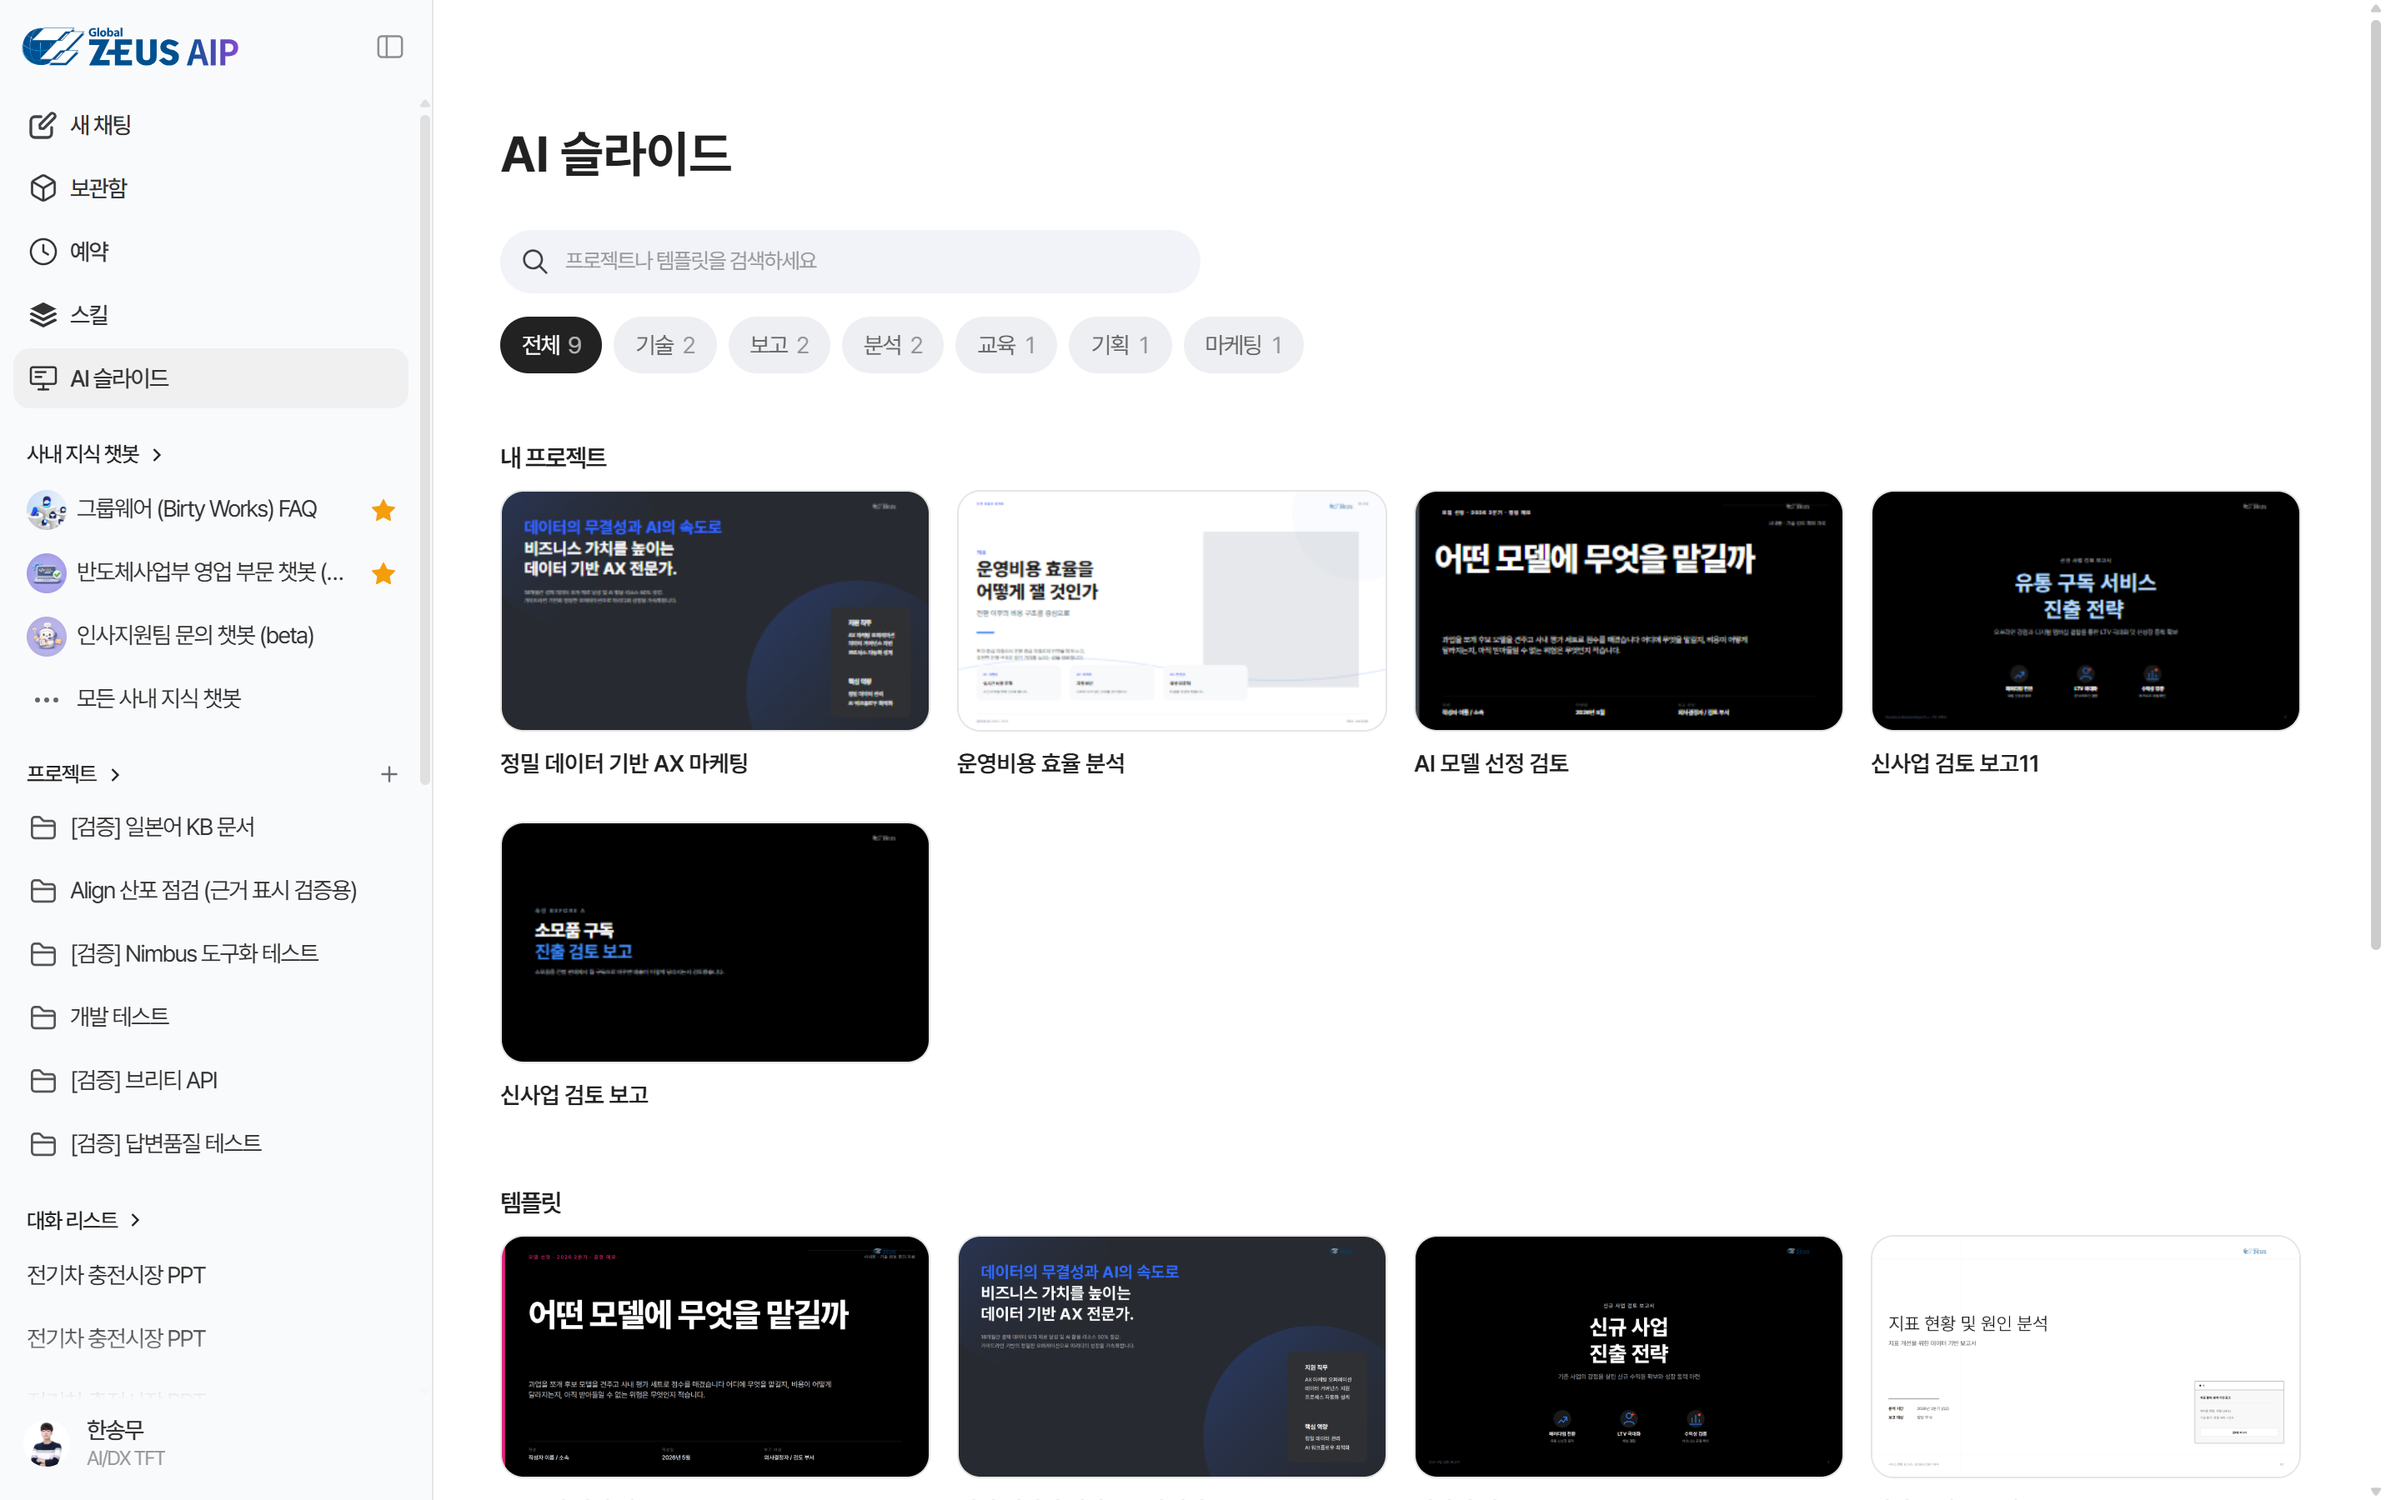
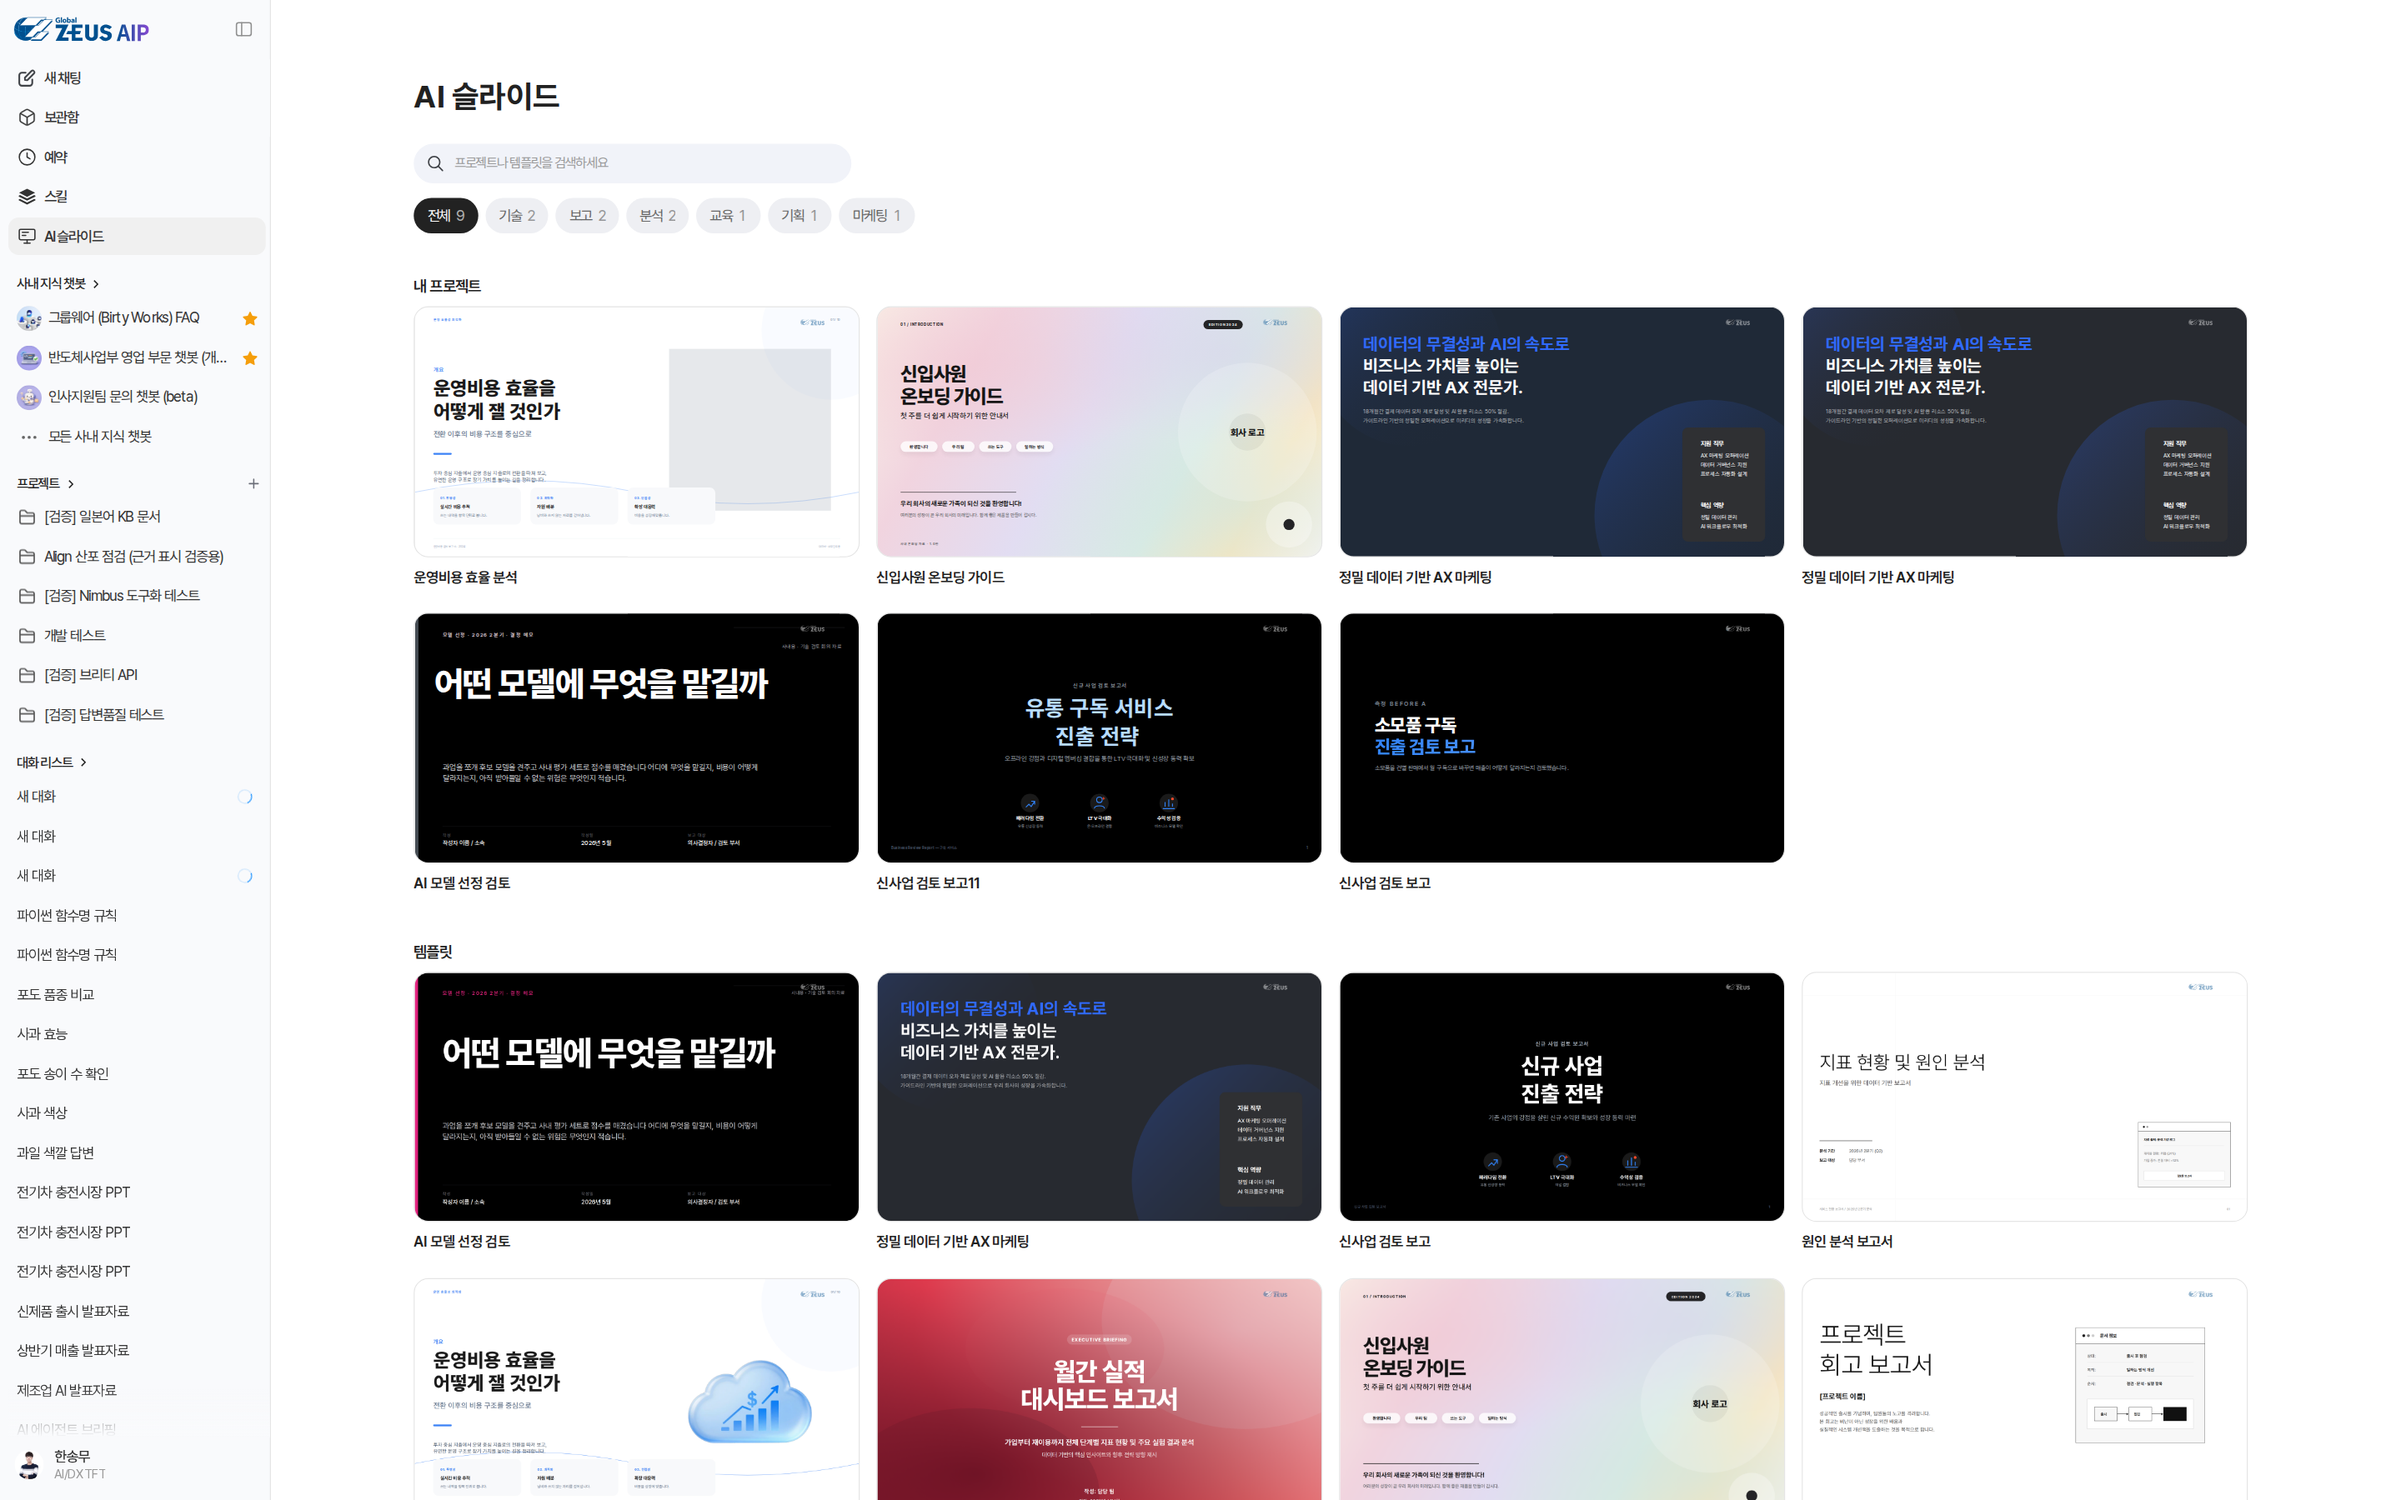
content(ai-platform): AI 슬라이드를 축소 화면과 패널 캡처로 보완한다
갤러리·편집 화면을 2304x1440@1.25(2880x1800)로 다시 찍어 한 화면에
더 많이 보이게 하고, 요소·텍스트·배경 패널 캡처(252~254)를 넣는다.
본문은 내부 장치 설명을 걷고, 사람이 고친 부분을 에이전트가 덮지 않는
것과 좌측 패널로 직접 손보는 흐름만 남긴다.

diff --git a/src/content/builds.ts b/src/content/builds.ts
@@ -372,10 +372,14 @@ export const builds: Build[] = [
       { type: 'image', src: '/projects/ai-platform/133.png', alt: '보관함 화면', caption: '채팅에서 쓰고 만든 파일이 모이는 보관함' },
       { type: 'heading', text: 'AI 슬라이드 (개발 중)' },
       { type: 'image', src: '/projects/ai-platform/250.png', alt: 'AI 슬라이드 갤러리 - 내 프로젝트와 템플릿', caption: '내 프로젝트와 템플릿' },
-      { type: 'paragraph', text: '발표자료를 템플릿에서 시작해 대화로 고치고, PPTX와 PDF로 내보내는 전용 화면입니다. 아직 운영에는 열지 않았습니다.' },
       { type: 'image', src: '/projects/ai-platform/251.png', alt: 'AI 슬라이드 편집 화면 - 왼쪽 AI 대화, 가운데 무대, 아래 장 목록', caption: '편집 화면' },
-      { type: 'paragraph', text: '발표자료는 장마다 레이어 목록을 가진 JSON 문서로 저장하고, 문서는 속성 변경과 레이어 추가·삭제·순서 변경 네 가지 연산으로만 바꿉니다. 장 전체를 다시 그리지 않고 레이어 하나만 고치기 위해서고, 바꾸는 방법이 적어야 되돌리기와 충돌 판정을 한 곳에서 처리할 수 있기 때문입니다.' },
-      { type: 'paragraph', text: '되돌리기는 편집할 때 바뀌기 전 값을 저장해 두었다가 같은 종류의 연산으로 다시 보냅니다. 그사이 에이전트가 같은 자리를 바꿨으면 이전 값으로 덮지 않습니다. 에이전트가 발표자료를 고친 턴마다 저장 지점을 남겨, 기록에서 이전 판으로 돌아갈 수 있습니다.' },
+      { type: 'image', src: '/projects/ai-platform/252.png', alt: 'AI 슬라이드 요소 패널 - 도형, 선, 화살표', caption: '요소 패널' },
+      { type: 'image', src: '/projects/ai-platform/253.png', alt: 'AI 슬라이드 텍스트 패널 - 기본 텍스트, 자주 쓰는 스타일, 폰트 조합', caption: '텍스트 패널' },
+      { type: 'image', src: '/projects/ai-platform/254.png', alt: 'AI 슬라이드 배경 패널 - 단색, 그라디언트, 이미지', caption: '배경 패널' },
+      { type: 'paragraph', text: '발표자료를 템플릿에서 시작해 대화로 고치고, PPTX와 PDF로 내보내는 전용 화면입니다. 아직 운영에는 열지 않았습니다.' },
+      { type: 'paragraph', text: '발표자료는 장마다 요소 목록을 가진 문서로 저장하고, 사람과 에이전트 모두 같은 몇 가지 편집 연산으로만 고칩니다. 에이전트가 장 전체를 다시 만들지 않고 필요한 요소만 고치게 하기 위해서입니다.' },
+      { type: 'paragraph', text: '사람이 직접 고친 부분은 에이전트가 덮어쓰지 않고, 되돌리기도 그사이 에이전트가 바꾼 내용은 건드리지 않습니다. 에이전트가 고친 턴마다 저장 지점을 남겨 기록에서 이전 판으로 돌아갈 수 있습니다.' },
+      { type: 'paragraph', text: '대화로 고치다가 직접 손볼 수 있도록 편집기 왼쪽에 요소, 텍스트, 업로드, 배경 패널을 두었습니다. 요소를 끌어 옮기거나 묶고 잠글 수 있고, 위쪽 서식 줄에서 글꼴과 정렬을 바로 바꿉니다. 사진은 여러 장을 한 번에 올리거나 무대에 끌어다 놓을 수 있습니다.' },
       { type: 'heading', text: '코드 인터프리터' },
       { type: 'image', src: '/projects/ai-platform/163.png', alt: '코드 인터프리터 차트 생성 화면', caption: '코드 실행 결과 - 인터랙티브 차트' },
       { type: 'paragraph', text: '데이터 분석이나 차트 생성처럼 계산이 필요한 요청은 LLM이 직접 답하지 않고 Python 코드를 작성해 실행합니다. 실행 환경은 네트워크 차단, 읽기 전용 파일시스템, 리소스 제한을 건 격리 샌드박스를 별도 서비스로 두었고, 격리 항목을 자동 검증하는 스크립트를 배포 조건으로 삼았습니다.' },

diff --git a/src/content/imageDims.ts b/src/content/imageDims.ts
@@ -46,6 +46,9 @@ export const imageDims: Record<string, { w: number; h: number }> = {
   '/projects/ai-platform/249.png': { w: 2880, h: 1800 },
   '/projects/ai-platform/250.png': { w: 2880, h: 1800 },
   '/projects/ai-platform/251.png': { w: 2880, h: 1800 },
+  '/projects/ai-platform/252.png': { w: 2880, h: 1800 },
+  '/projects/ai-platform/253.png': { w: 2880, h: 1800 },
+  '/projects/ai-platform/254.png': { w: 2880, h: 1800 },
   '/projects/attendance/115.png': { w: 1600, h: 900 },
   '/projects/attendance/43.png': { w: 1895, h: 943 },
   '/projects/attendance/45.png': { w: 695, h: 944 },
